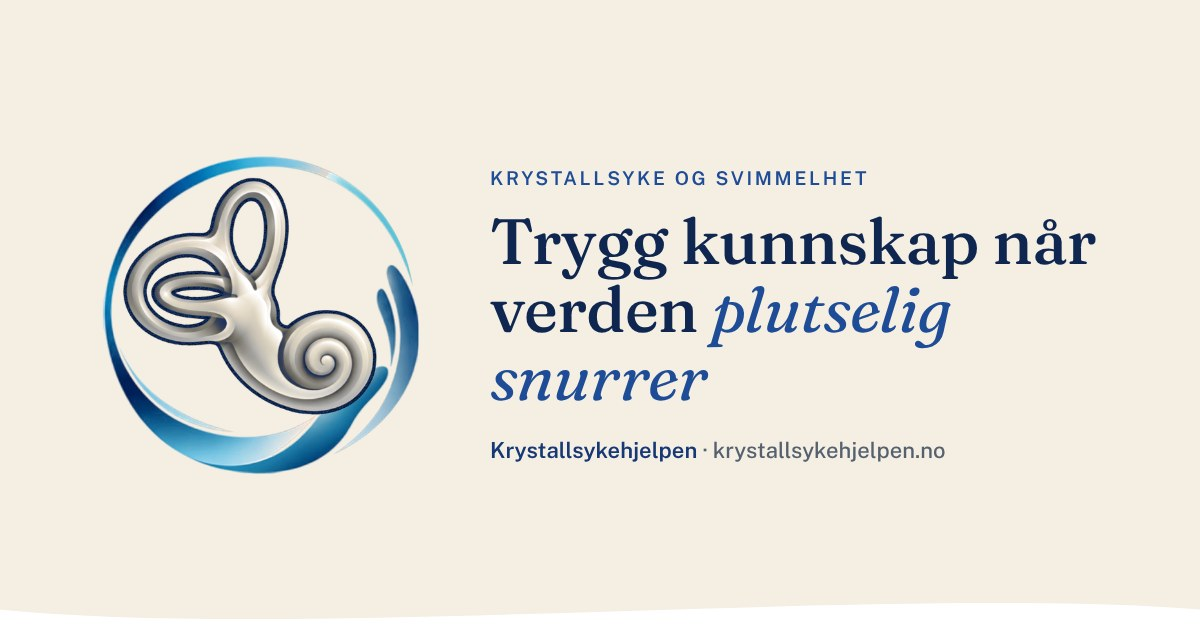
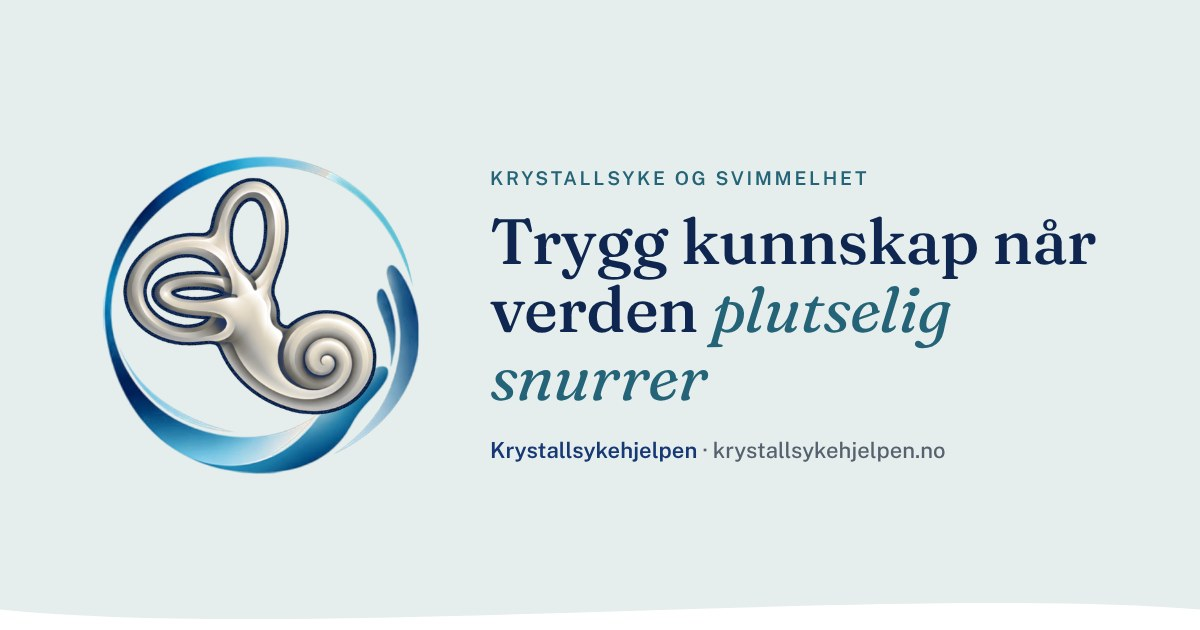
Fargepalett «Fjord» (#7)
- Flater: beige → fjord (#e5eeec), lys blå → lys fjord (#eef4f3)
- Aksent: lyseblå → petrol (#256478), også fokus-skygger og kartnål
- Linjefarge tilpasset (#dbe5e3)
- Forsidens kursiv og øyebrynstekst i petrol
- Varselbokser og varselikon i marineblått i stedet for rødt/oransje
- Delingsbildet oppdatert til Fjord-farger

Claude-Session: https://claude.ai/code/session_01Q3EWJbMtQ9PPiEXibTR184

diff --git a/astro-site/src/styles/global.css b/astro-site/src/styles/global.css
@@ -1,21 +1,24 @@
 /* ===================================================
    KRYSTALLSYKEHJELPEN – globale designtokens
-   Fargepaletten er bevisst beholdt fra den blå/turkise
-   identiteten (matcher den ekte logoen: marineblå ring,
-   turkis sirkel).
+   Fargepalett «Fjord» (valgt 2026-10-30): marineblått som
+   hovedfarge, lyse fjordtoner som flater og petrol som aksent
+   (henter turkisen fra logoringen).
+   Tokennavnene --sky og --beige er beholdt for å ikke måtte
+   endre alle sider: --sky = lys fjord (sidebakgrunn, infobokser),
+   --beige = fjord (hero og bånd).
 =================================================== */
 
 :root {
   --navy: #163875;
   --navy-2: #1e4c96;
   --navy-deep: #0e2650; /* mørk marineblå – forsidens hovedoverskrift */
-  --sky: #eff4fb;
+  --sky: #eef4f3;   /* lys fjord */
   --paper: #ffffff;
-  --beige: #f4eee3;
+  --beige: #e5eeec; /* fjord */
   --ink: #1b2431;
   --ink-soft: #55616f;
-  --line: #e2e8f2;
-  --accent: #2f79c9;
+  --line: #dbe5e3;
+  --accent: #256478; /* petrol */
   --turquoise: #5fc1d6;
 
   --font-display: "Fraunces", Georgia, serif;
@@ -87,7 +90,7 @@ a { color: var(--navy); }
 .btn-outline:hover { border-color: var(--navy-2); }
 
 .btn-beige { background: var(--beige); color: var(--navy); border: 1.5px solid transparent; }
-.btn-beige:hover { background: #ece2d0; }
+.btn-beige:hover { background: #d6e4e1; }
 
 a:focus-visible, button:focus-visible, input:focus-visible, textarea:focus-visible {
   outline: 3px solid var(--accent);
